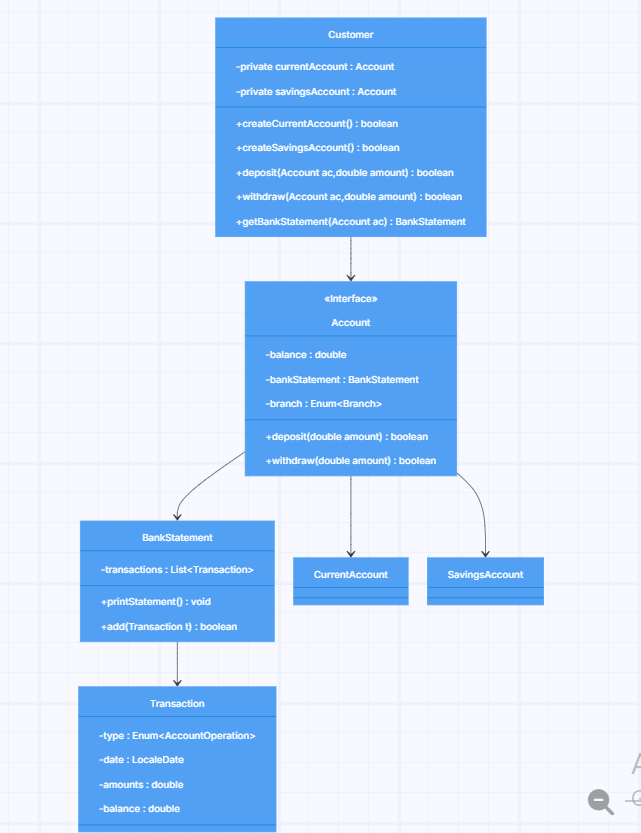
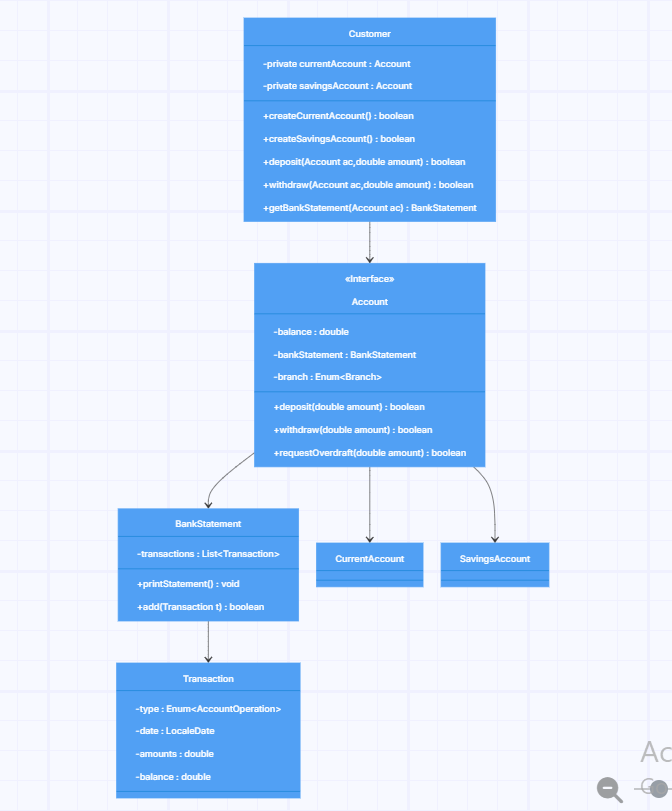
completed overdraft

Changed region(s): [[0.1248, 0.0, 0.8736, 1.0], [0.8736, 0.894, 1.0, 0.9864]]

diff --git a/src/test/java/com/booleanuk/core/BankTest.java b/src/test/java/com/booleanuk/core/BankTest.java
@@ -94,11 +94,11 @@ public class BankTest {
         Transaction depositTransaction2 = tList.get(1);
         Transaction withdrawTransaction = tList.get(2);
 
-        Assertions.assertEquals(1000,depositTransaction1.getBalance());
-        Assertions.assertEquals(1000,depositTransaction1.getAmount());
-        Assertions.assertEquals(2000,depositTransaction2.getAmount());
-        Assertions.assertEquals(3000,depositTransaction2.getBalance());
-        Assertions.assertEquals(2500,withdrawTransaction.getBalance());
+        Assertions.assertEquals(1_000,depositTransaction1.getBalance());
+        Assertions.assertEquals(1_000,depositTransaction1.getAmount());
+        Assertions.assertEquals(2_000,depositTransaction2.getAmount());
+        Assertions.assertEquals(3_000,depositTransaction2.getBalance());
+        Assertions.assertEquals(2_500,withdrawTransaction.getBalance());
         Assertions.assertEquals(500,withdrawTransaction.getAmount());
 
 
@@ -117,6 +117,18 @@ public class BankTest {
 
         bankStatement.printStatement();
         Assertions.assertTrue(true);
+
+    }
+
+    @Test
+    void overdraft(){
+
+        Customer c1 = new Customer();
+        c1.createCurrentAccount();
+        c1.deposit(c1.getCurrentAccount(),100);
+
+        Assertions.assertTrue(c1.requestOverdraft(400));
+        Assertions.assertFalse(c1.requestOverdraft(3200));
 
     }
 

diff --git a/src/main/java/com/booleanuk/core/CurrentAccount.java b/src/main/java/com/booleanuk/core/CurrentAccount.java
@@ -7,6 +7,7 @@ public class CurrentAccount implements Account{
     private double balance;
     private Enum<Branches> branch;
     private final BankStatement bankStatement = new BankStatement();
+    private final double OVERDRAFTLIMIT = -3000;
 
     public CurrentAccount(){
         balance = calculateBalance();
@@ -64,5 +65,9 @@ public class CurrentAccount implements Account{
 
         return sum;
 
+    }
+
+    public boolean requestOverdraft(double amount){
+        return this.balance-amount < OVERDRAFTLIMIT;
     }
 }

diff --git a/src/main/java/com/booleanuk/core/Customer.java b/src/main/java/com/booleanuk/core/Customer.java
@@ -56,4 +56,21 @@ public class Customer {
         return ac.getBankstatement();
     }
 
+    public boolean changeAccountBranch(Account ac, Enum<Branches> branch){
+        if(ac==null)
+            return false;
+
+        ac.setBranch(branch);
+        return true;
+    }
+
+
+    public boolean requestOverdraft(double amount){
+
+        return !currentAccount.requestOverdraft(amount);
+
+    }
+
+
+
 }

diff --git a/src/main/java/com/booleanuk/core/SavingsAccount.java b/src/main/java/com/booleanuk/core/SavingsAccount.java
@@ -55,6 +55,11 @@ public class SavingsAccount implements Account{
         this.branch = newBranch;
     }
 
+    @Override
+    public boolean requestOverdraft(double amount) {
+        return false;
+    }
+
     private double calculateBalance(){
 
         if(bankStatement.getTransactions().isEmpty())

diff --git a/src/main/java/com/booleanuk/core/Account.java b/src/main/java/com/booleanuk/core/Account.java
@@ -9,6 +9,7 @@ public interface Account {
     double getBalance();
     Enum<Branches> getBranch();
     void setBranch(Enum<Branches> newBranch);
+    boolean requestOverdraft(double amount);
 
 
 }

diff --git a/src/main/java/com/booleanuk/core/Models/domain_model.md b/src/main/java/com/booleanuk/core/Models/domain_model.md
@@ -16,8 +16,10 @@
 |               |                                            | bank statement dosen't exist                          | null                                |
 | BankStatement | List\<transactions\>getTransactoins()      | if there exists transactions                          | List of all transactions            |
 |               |                                            | no transactions exists                                | null                                |
+| Account       | boolean requestOverdarft(double amount)    | amount does not go past limit                         | true                                |
+|               |                                            | amount exceeds limit                                  | false                               |
 |               |                                            |                                                       |                                     |
 |               |                                            |                                                       |                                     |
 |               |                                            |                                                       |                                     |
 |               |                                            |                                                       |                                     |
-|               |                                            |                                                       |                                     |
+
